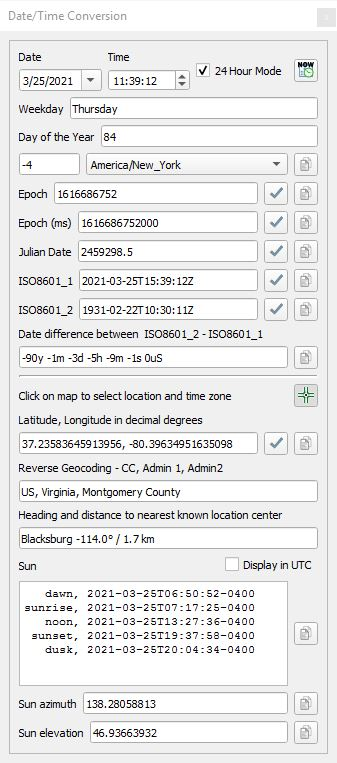
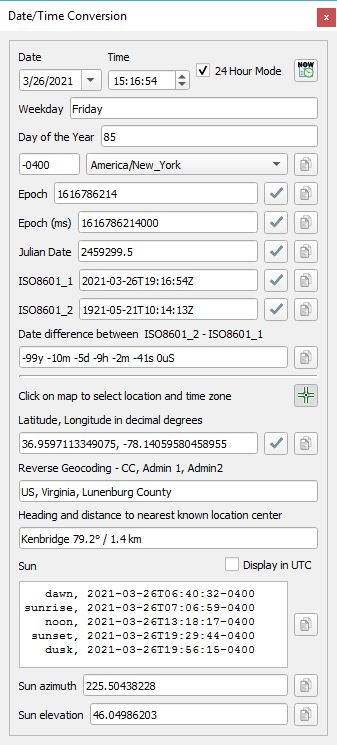
update how offset is displayed

diff --git a/conversionDialog.py b/conversionDialog.py
@@ -192,7 +192,8 @@ class ConversionDialog(QDockWidget, FORM_CLASS):
         else:
             self.timeEdit.setDisplayFormat("hh:mm:ss AP")
         dt = self.getLocalDateTime()
-        offset = int(dt.tzinfo.utcoffset(dt).total_seconds()/3600.0)
+        # offset = int(dt.tzinfo.utcoffset(dt).total_seconds()/3600.0)
+        offset = dt.strftime('%z')
         if id != Update.DATE:
             self.dateEdit.blockSignals(True)
             self.dateEdit.setDate(QDate(dt.year, dt.month, dt.day))
@@ -234,7 +235,8 @@ class ConversionDialog(QDockWidget, FORM_CLASS):
         self.dayOfWeekLineEdit.setText(DOW[tinfo.tm_wday])
         self.doyLineEdit.setText('{}'.format(tinfo.tm_yday))
 
-        self.timezoneOffsetLineEdit.setText('{:+d}'.format(offset))
+        # self.timezoneOffsetLineEdit.setText('{:+d}'.format(offset))
+        self.timezoneOffsetLineEdit.setText(offset)
         
         self.updateTimeDelta()
         self.updateSunMoon()
